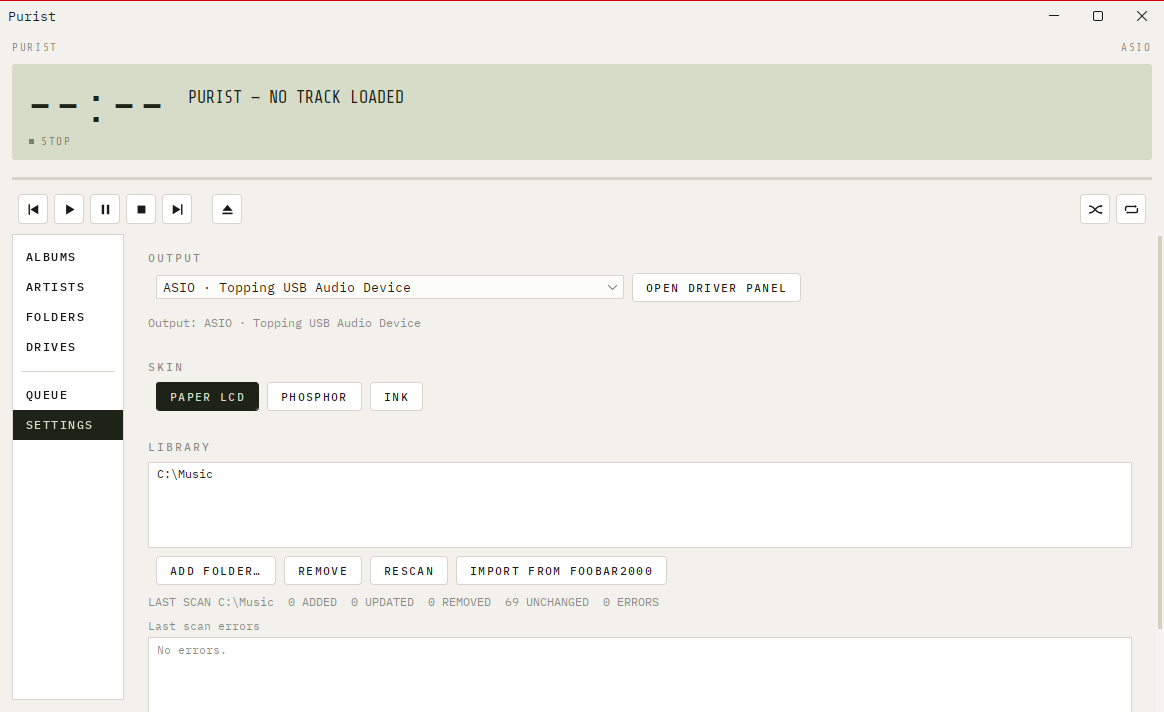
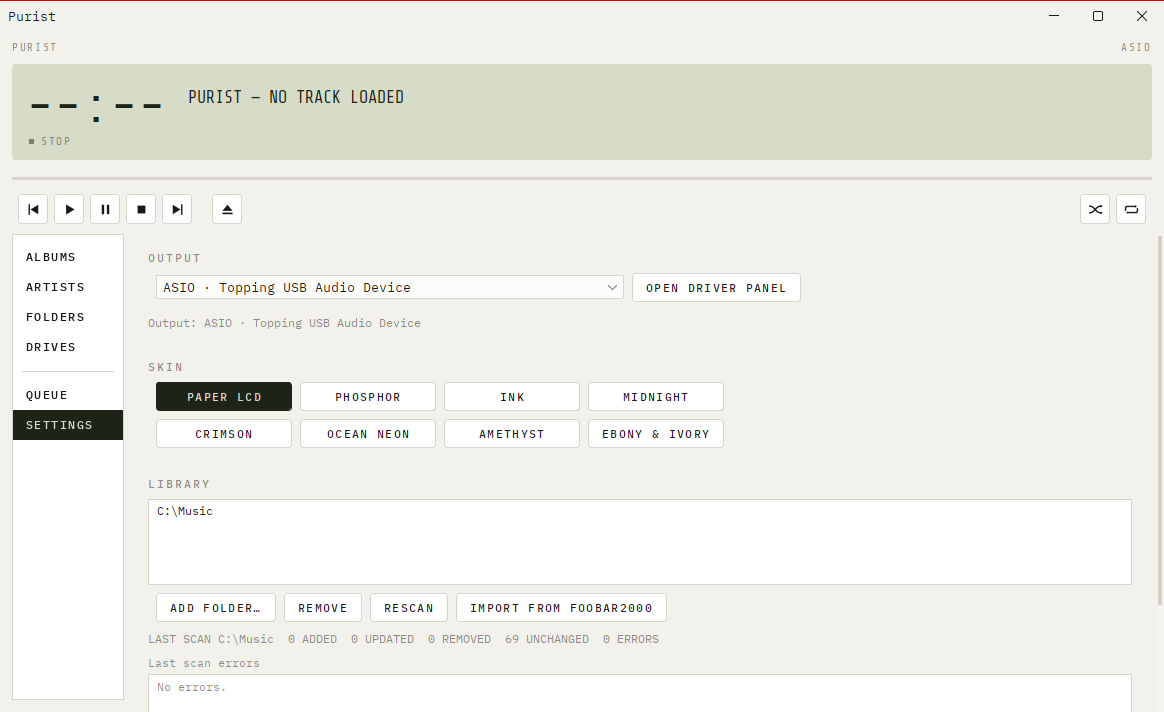
Add five skins after popular foobar2000 skins
Midnight (DarkOne), Crimson, Ocean Neon, Amethyst (Pink Amethyst) and
Ebony & Ivory join Paper LCD, Phosphor and Ink. The Settings skin picker
is now a 4-wide grid. Tests check every skin loads, its dark flag matches
the chassis, and its text contrast is at least 4.5:1. README gains a
gallery of the new skins.

diff --git a/src/test/java/purist/ui/theme/PuristThemeTest.java b/src/test/java/purist/ui/theme/PuristThemeTest.java
@@ -46,6 +46,51 @@ class PuristThemeTest {
     }
 
     @Test
+    void everySkinSetsUpWithItsOwnBase() {
+        for (Skin s : Skin.values()) {
+            assertTrue(PuristTheme.setup(s), s.label);
+            assertEquals(s.dark, FlatLaf.isLafDark(), s.label);
+            assertEquals(s.chassis, UIManager.getColor("Panel.background"), s.label);
+            assertSame(s, Skin.fromSetting(s.name().toLowerCase()));
+        }
+    }
+
+    /** The dark flag picks the popup and scrollbar base, so it has to match how the chassis actually looks. */
+    @Test
+    void theDarkFlagMatchesTheChassis() {
+        for (Skin s : Skin.values()) {
+            assertEquals(s.dark, luminance(s.chassis) < 0.5, s.label);
+        }
+    }
+
+    /** Text, segments and highlights stay readable: at least 4.5:1 (WCAG AA) against what they sit on. */
+    @Test
+    void everySkinKeepsItsTextReadable() {
+        for (Skin s : Skin.values()) {
+            assertReadable(s.label + " list", s.listText, s.list);
+            assertReadable(s.label + " LCD", s.segment, s.lcd);
+            assertReadable(s.label + " highlight", s.highlightText, s.highlight);
+            assertReadable(s.label + " button", s.buttonText, s.button);
+        }
+    }
+
+    private static void assertReadable(String what, java.awt.Color fg, java.awt.Color bg) {
+        double a = luminance(fg) + 0.05;
+        double b = luminance(bg) + 0.05;
+        double ratio = Math.max(a, b) / Math.min(a, b);
+        assertTrue(ratio >= 4.5, what + " contrast " + String.format("%.2f", ratio));
+    }
+
+    private static double luminance(java.awt.Color c) {
+        return 0.2126 * linear(c.getRed()) + 0.7152 * linear(c.getGreen()) + 0.0722 * linear(c.getBlue());
+    }
+
+    private static double linear(int channel) {
+        double v = channel / 255.0;
+        return v <= 0.03928 ? v / 12.92 : Math.pow((v + 0.055) / 1.055, 2.4);
+    }
+
+    @Test
     void unknownSettingFallsBackToPaper() {
         assertSame(Skin.PAPER, Skin.fromSetting(null));
         assertSame(Skin.PAPER, Skin.fromSetting("winamp-classic"));

diff --git a/src/main/java/purist/ui/theme/Skin.java b/src/main/java/purist/ui/theme/Skin.java
@@ -24,7 +24,27 @@ public enum Skin {
     /** Pure black and white. */
     INK("Ink", false,
             0xFFFFFF, 0x111111, 0x111111, 0xFFFFFF, 0x8C8C8C,
-            0xFFFFFF, 0x111111, 0x9A9A9A, 0x111111, 0xFFFFFF, 0xFFFFFF, 0x111111);
+            0xFFFFFF, 0x111111, 0x9A9A9A, 0x111111, 0xFFFFFF, 0xFFFFFF, 0x111111),
+    /** Graphite and steel blue, after the foobar2000 skin DarkOne. */
+    MIDNIGHT("Midnight", true,
+            0x1E2127, 0x323843, 0x0D1A26, 0x6CB8F0, 0x2F4F68,
+            0x16191E, 0xD5DAE1, 0x6B7480, 0x2F6FA8, 0xFFFFFF, 0x2A2F37, 0xD5DAE1),
+    /** Near black with a red LED readout, after the foobar2000 skin Crimson. */
+    CRIMSON("Crimson", true,
+            0x141012, 0x3A1F24, 0x1A0607, 0xFF4A3D, 0x5A1C19,
+            0x0F0C0D, 0xE8DCDC, 0x7D6A6B, 0xB3202A, 0xFFFFFF, 0x261A1C, 0xE8DCDC),
+    /** Deep navy with a cyan neon readout, after the foobar2000 skin Ocean Neon. */
+    OCEAN_NEON("Ocean Neon", true,
+            0x0B1626, 0x173452, 0x03101C, 0x2FF3E0, 0x115A5A,
+            0x08111E, 0xBFE9F2, 0x4E7A8C, 0x0E7C86, 0xEFFFFF, 0x112640, 0xBFE9F2),
+    /** Lavender with a plum display, after the foobar2000 skin Pink Amethyst. */
+    AMETHYST("Amethyst", false,
+            0xF3E8F1, 0xD9C2D6, 0x2B1633, 0xF59BD0, 0x6A3F6E,
+            0xFBF6FA, 0x2B1633, 0x9A7F98, 0x8E3C8A, 0xFFFFFF, 0xFFFFFF, 0x2B1633),
+    /** Ivory with an ebony display, after the foobar2000 skin Ebony & Ivory. */
+    IVORY("Ebony & Ivory", false,
+            0xF4EEDF, 0xD8CDB4, 0x1C1814, 0xF2E6C8, 0x5E5446,
+            0xFBF7EE, 0x1C1814, 0x8F8573, 0x1C1814, 0xF4EEDF, 0xFFFDF7, 0x1C1814);
 
     /** The settings key holding the skin's {@link #name()}. */
     public static final String SETTING = "ui.skin";

diff --git a/src/main/java/purist/ui/SettingsView.java b/src/main/java/purist/ui/SettingsView.java
@@ -4,6 +4,7 @@ import java.awt.Component;
 import java.awt.FlowLayout;
 import java.awt.GridBagConstraints;
 import java.awt.GridBagLayout;
+import java.awt.GridLayout;
 import java.awt.Insets;
 import java.util.ArrayList;
 import java.util.List;
@@ -145,7 +146,10 @@ public final class SettingsView extends JPanel {
             status.setText("No output device found. Connect a DAC or install its ASIO driver, then restart Purist.");
         }
 
+        JPanel skinGrid = new JPanel(new GridLayout(0, 4, 8, 8)); // eight skins: two rows of four
+        skinGrid.setOpaque(false);
         JPanel skinRow = row();
+        skinRow.add(skinGrid);
         for (Skin s : Skin.values()) {
             TextButton b = new TextButton(s.label, false);
             b.addActionListener(e -> {
@@ -153,7 +157,7 @@ public final class SettingsView extends JPanel {
                 markSkin(s);
             });
             skinButtons.add(b);
-            skinRow.add(b);
+            skinGrid.add(b);
         }
         markSkin(PuristTheme.skin());
 

diff --git a/README.md b/README.md
@@ -49,7 +49,9 @@ the track and tells you why.
   - Album grid with cover art, Artists and Folders views.
   - foobar-style search: `artist:jackson`, `year:1982`, `format:dsd`, `"exact phrase"`.
 - **Playlists:** tabs, drag to reorder, and a read-only one-time import from foobar2000.
-- **Three skins:** Paper LCD, Phosphor and Ink, inspired by classic hardware decks.
+- **Eight skins:**
+  - Paper LCD, Phosphor and Ink, inspired by classic hardware decks.
+  - Midnight, Crimson, Ocean Neon, Amethyst and Ebony & Ivory, after popular foobar2000 skins.
 - **Device handling:** if the DAC is switched off or unplugged, a banner appears, Purist retries, and playback
   resumes when the DAC comes back.
 
@@ -60,6 +62,20 @@ the track and tells you why.
 | <img src="docs/screenshots/paper-albums.png" alt="Album grid in the Paper LCD skin"> | <img src="docs/screenshots/phosphor-playing.png" alt="A 24/192 FLAC playing bit-perfect in the Phosphor skin"> |
 | **Artists, Ink** | **Settings** |
 | <img src="docs/screenshots/ink-artists.png" alt="Artists view in the Ink skin"> | <img src="docs/screenshots/paper-settings.png" alt="Output, skin and library settings"> |
+
+### More skins
+
+Five more colour sets, each after a popular [foobar2000 skin](https://vsthemes.org/en/skins/foobar2000/):
+Midnight (DarkOne), Crimson, Ocean Neon, Amethyst (Pink Amethyst) and Ebony & Ivory. They're only palettes;
+the layout stays Purist's. Pick one under **Settings → Skin**. It applies at once, even mid-track.
+
+| Midnight | Crimson |
+|---|---|
+| <img src="docs/screenshots/midnight-playing.png" alt="A 24/192 FLAC playing in the Midnight skin"> | <img src="docs/screenshots/crimson-albums.png" alt="Album grid in the Crimson skin"> |
+| **Ocean Neon** | **Amethyst** |
+| <img src="docs/screenshots/ocean-neon-playing.png" alt="A 24/96 FLAC playing in the Ocean Neon skin"> | <img src="docs/screenshots/amethyst-artists.png" alt="Artists view in the Amethyst skin"> |
+| **Ebony & Ivory** | |
+| <img src="docs/screenshots/ivory-playing.png" alt="A 24/96 FLAC playing in the Ebony & Ivory skin"> | |
 
 <sub>The library in these screenshots is invented: silent FLACs with made-up names and generated covers.</sub>
 

diff --git a/docs/verification/QA-checklist.md b/docs/verification/QA-checklist.md
@@ -67,6 +67,10 @@ All of §2–7: 2026-10-27, user at the D50, hands-on with `run.cmd` @ ea0a996 (
 
 ## 7. UI and settings
 - [x] The three skins (Paper LCD, Phosphor, Ink) — every view readable, switching while playing
+- [~] Five more skins (Midnight, Crimson, Ocean Neon, Amethyst, Ebony & Ivory), added 2026-10-29: every skin loads,
+  its dark flag matches the chassis, and text, LCD, highlight and button contrast are at least 4.5:1
+  (`PuristThemeTest`). Queue, Albums, Artists and Settings were captured and look right. Switching while playing
+  wasn't tried by hand.
 - [x] Non-Latin tags (for example Japanese) show correctly
 - [x] Tags that look like HTML show as plain text
 - [x] Every keyboard shortcut in every view
